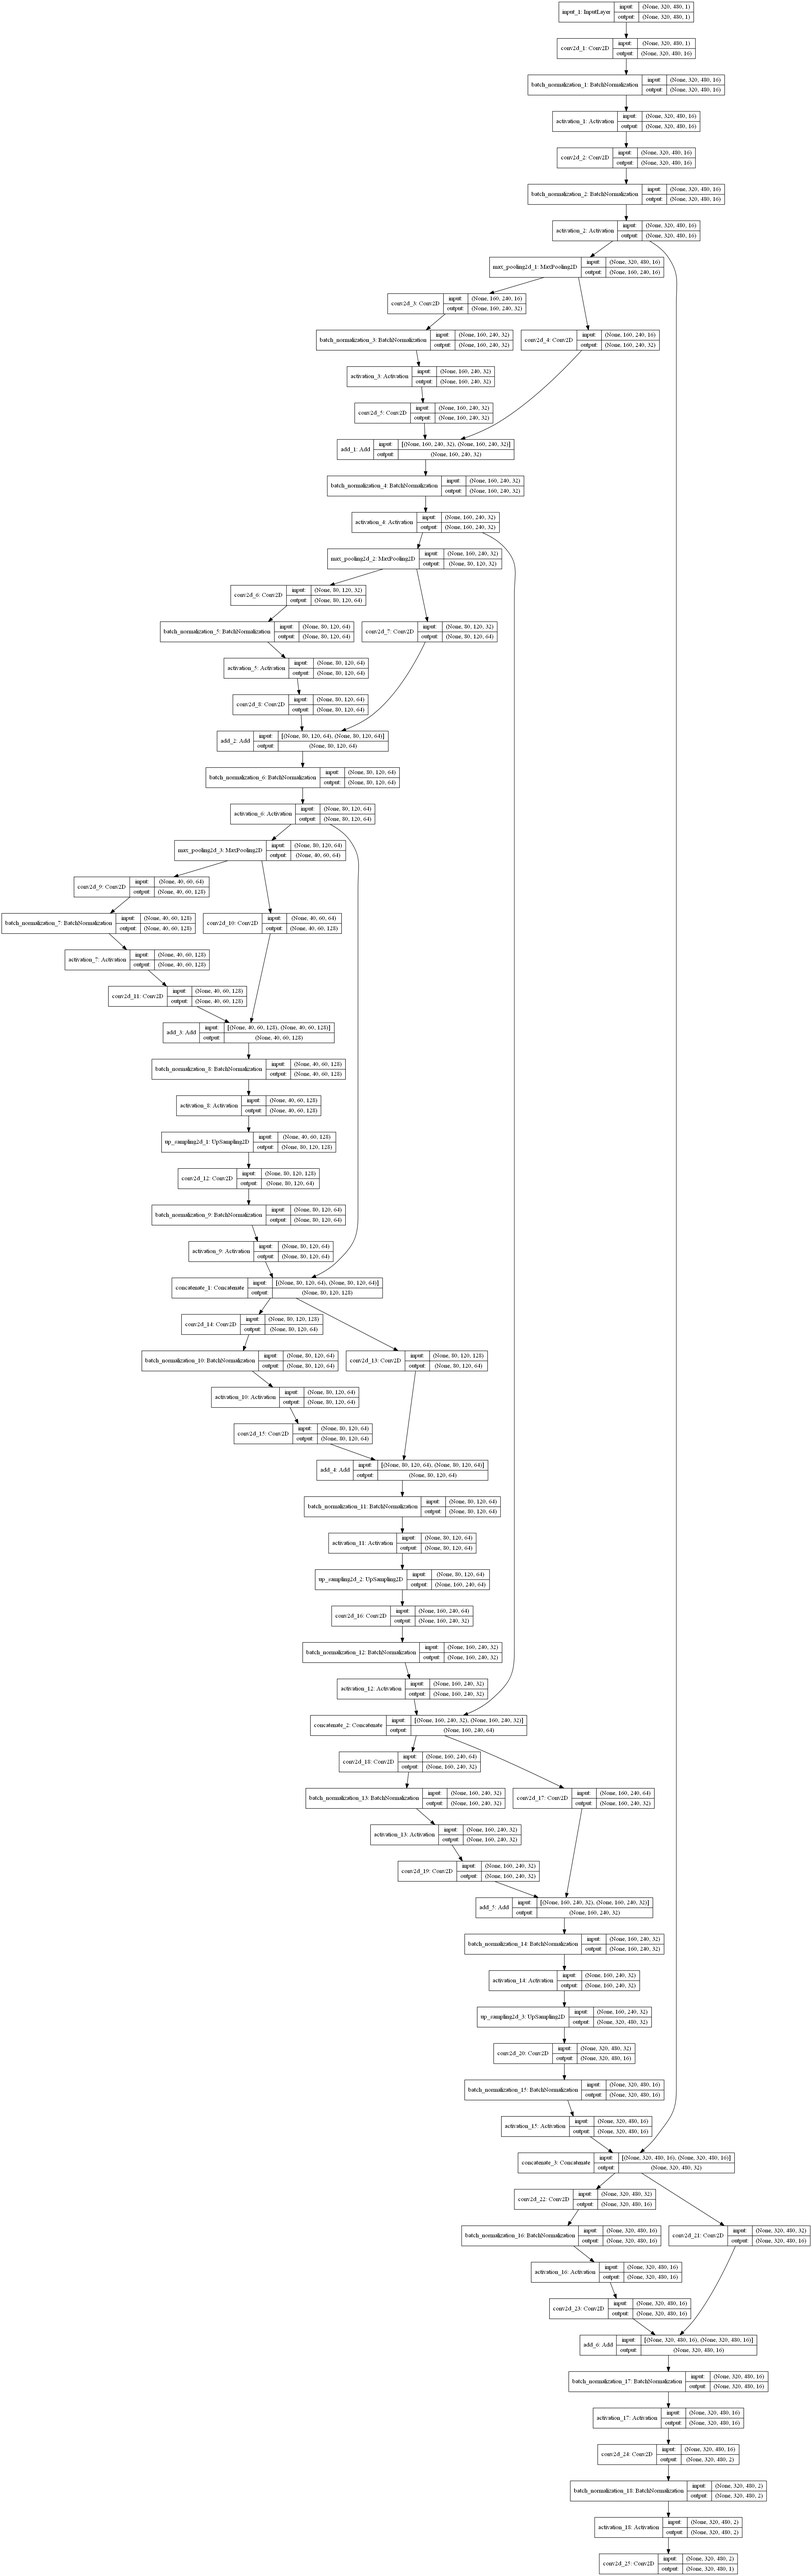
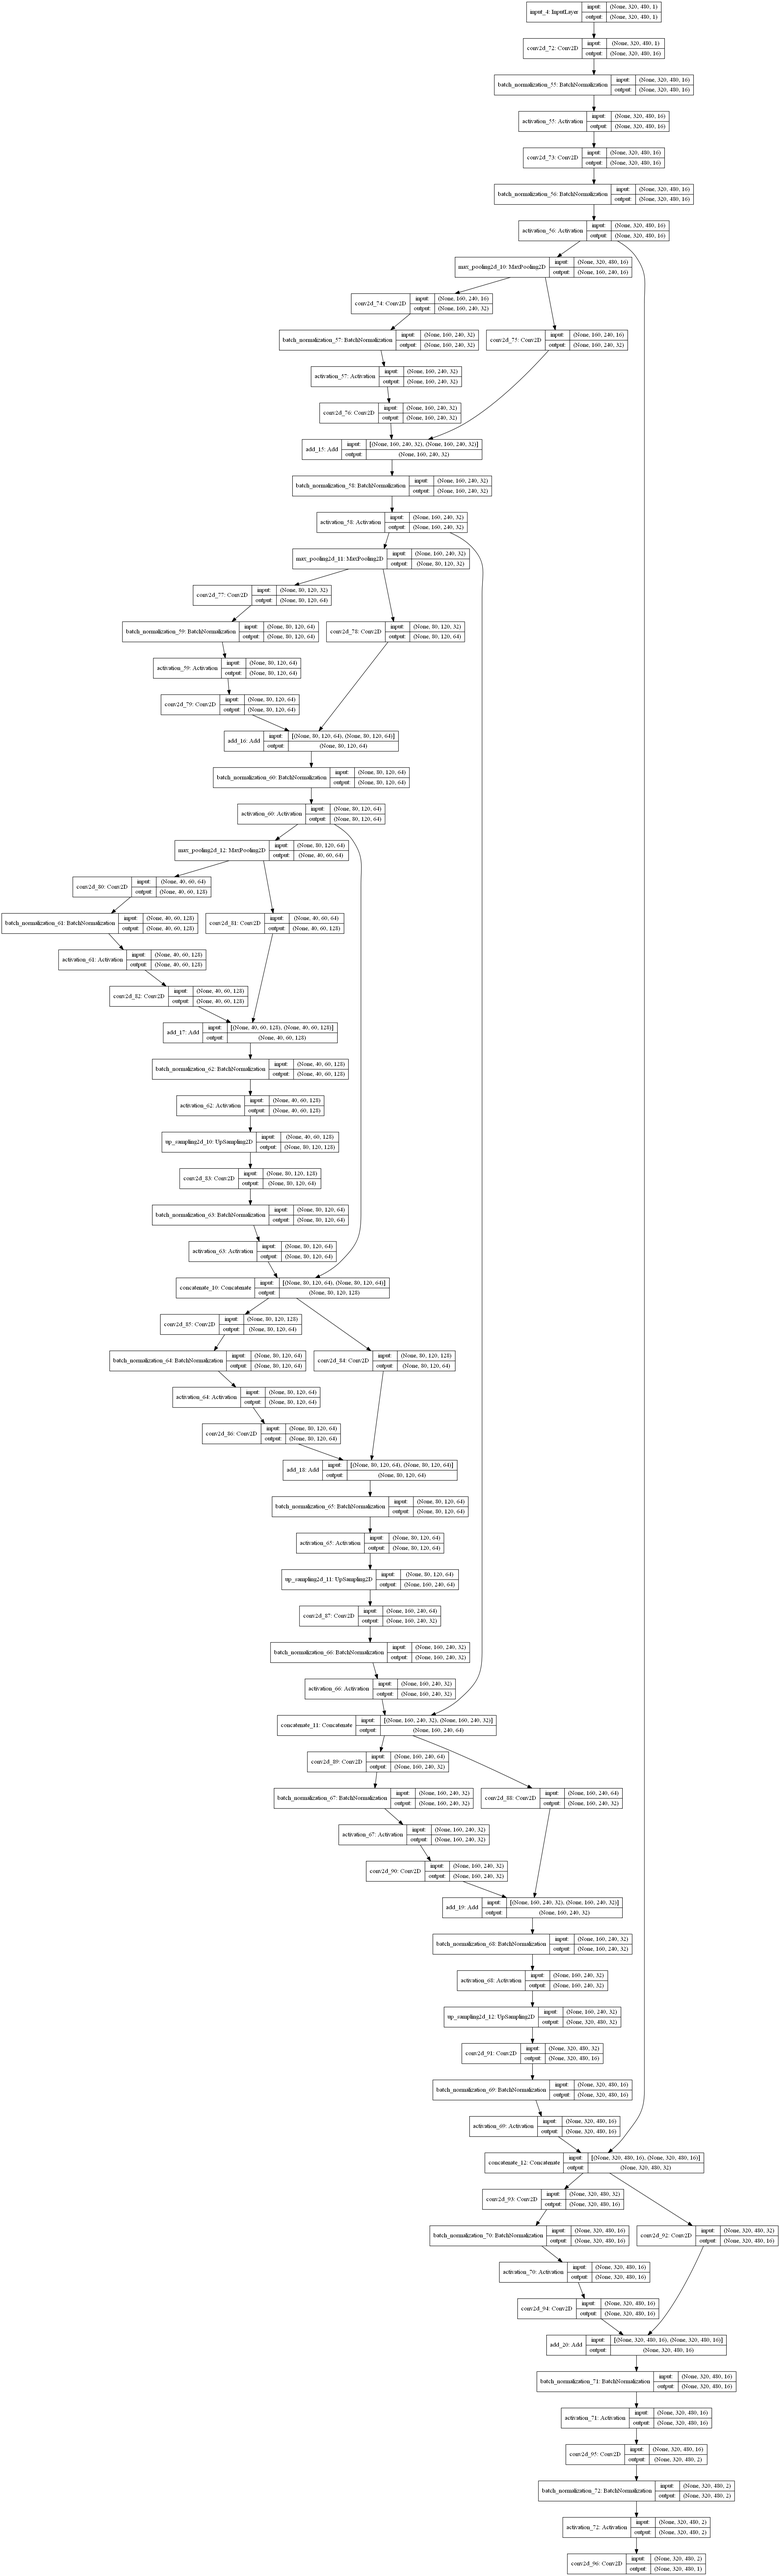
Code update

diff --git a/script/model/predict.py b/script/model/predict.py
@@ -118,14 +118,12 @@ data_gen_args = dict(rotation_range=0.0,
                     fill_mode='nearest')
 
 configs = [
-'l4k16AutoEncoder4Dice_0.001_1',
-'l4k16AutoEncoder4ResAddOpConcDecDice_0.001_1',
-'l4k16AutoEncoder4ResAddOpDice_0.001_1']
+'l4k16AutoEncoder4ResAddOpFirstExDice_0.001_0']
 
 for config in configs:
     #configName = 'l5k16Dice_1'
     configName = config
-    inputDir = 'E:/RoadCracksInspection/trainingOutput/1/'+configName+'/'
+    inputDir = 'E:/RoadCracksInspection/trainingOutput/0/'+configName+'/'
     weightList = glob.glob(inputDir + '*.hdf5')
     counter = 0
     for weightPath in weightList:
@@ -134,6 +132,12 @@ for config in configs:
         fileName, extension = os.path.splitext(fileNameWithExt)
         kernels_list = [16,32]
         for kernels in kernels_list:
+            try:
+                model = AutoEncoder4ResAddOpFirstEx(number_of_kernels = kernels, pretrained_weights = weightPath, loss_function = Loss.CROSSENTROPY)
+                break
+            except:
+                print('Not AutoEncoder4ResAddOpFirstEx')
+
             try:
                 model = AutoEncoder4(number_of_kernels = kernels, pretrained_weights = weightPath, loss_function = Loss.CROSSENTROPY)
                 break
@@ -152,10 +156,18 @@ for config in configs:
             except:
                 print('Not AutoEncoder4ResAddOpConcDec')
 
-        testGene = testGenerator('E:/RoadCracksInspection/datasets/Set_1/Test/Images/')
+            try:
+                model = AutoEncoder4ResAddOpConcDecFirstEx(number_of_kernels = kernels, pretrained_weights = weightPath, loss_function = Loss.CROSSENTROPY)
+                break
+            except:
+                print('Not AutoEncoder4ResAddOpConcDecFirstEx')
+
+            
+
+        testGene = testGenerator('E:/RoadCracksInspection/datasets/Set_0/Test/Images/')
         results = model.predict_generator(testGene,35,verbose=1)
                 
-        predictionOutputDir = 'E:/RoadCracksInspection/trainingOutput/1/'+configName+'/prediction/' + str(counter) + '/'
+        predictionOutputDir = 'E:/RoadCracksInspection/trainingOutput/0/'+configName+'/prediction/' + str(counter) + '/'
         if not os.path.exists(predictionOutputDir):
             os.makedirs(predictionOutputDir)
         saveResult(predictionOutputDir,results)

diff --git a/script/model/main.py b/script/model/main.py
@@ -98,10 +98,10 @@ data_gen_args = dict(rotation_range=0.0,
 
 learningRate = 0.001
 kernels = 16
-setNumber = 2
+setNumber = 0
 
 #1
-outputDir = 'E:/RoadCracksInspection/trainingOutput/' + str(setNumber) + '/l4k' + str(kernels) + 'AutoEncoder4ResAddOpConcDecFirstExDice_' + str(learningRate) + '_' + str(setNumber) +'/'
+outputDir = 'E:/RoadCracksInspection/trainingOutput/' + str(setNumber) + '/l4k' + str(kernels) + 'AutoEncoder4ResAddOpFirstExDice_' + str(learningRate) + '_' + str(setNumber) +'/'
 if not os.path.exists(outputDir):
     print('Output directory doesnt exist!\n')
     print('It will be created!\n')
@@ -109,9 +109,9 @@ if not os.path.exists(outputDir):
 
 generator = trainGenerator(2,'C:/Users/DeepLearningRig/Desktop/datasets/Set_' + str(setNumber) + '/Train/Augm/','Images','Labels',data_gen_args,save_to_dir = None)
 
-model = AutoEncoder4ResAddOpConcDecFirstEx(number_of_kernels=kernels, loss_function = Loss.DICE)
+model = AutoEncoder4ResAddOpFirstEx(number_of_kernels=kernels, loss_function = Loss.DICE)
 
-outputPath = outputDir + "AutoEncoder4ResAddOpConcDecFirstExDice-{epoch:03d}-{loss:.4f}.hdf5"
+outputPath = outputDir + "AutoEncoder4ResAddOpFirstExDice-{epoch:03d}-{loss:.4f}.hdf5"
 model_checkpoint = ModelCheckpoint(outputPath, monitor='loss',verbose=1, save_best_only=False, save_weights_only=False)
 model.fit_generator(generator,steps_per_epoch=164,epochs=50,callbacks=[model_checkpoint])
 
